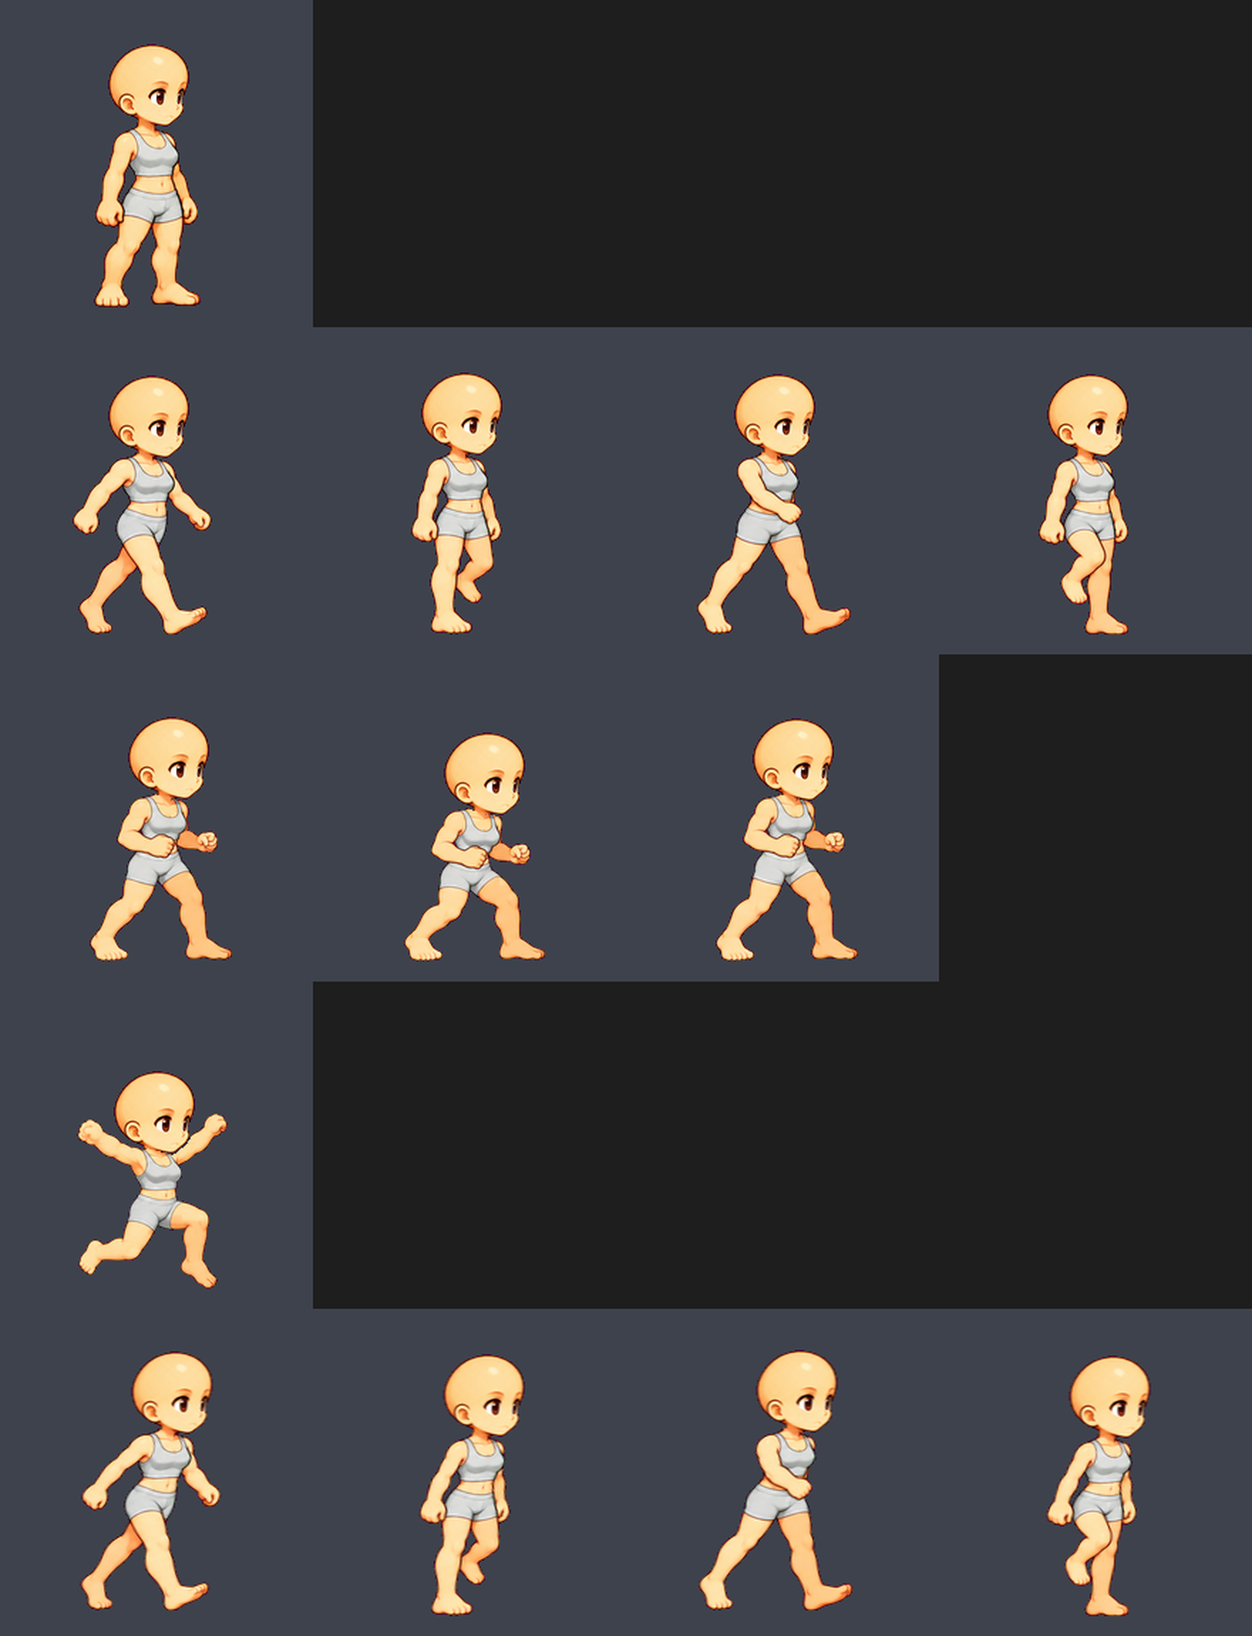
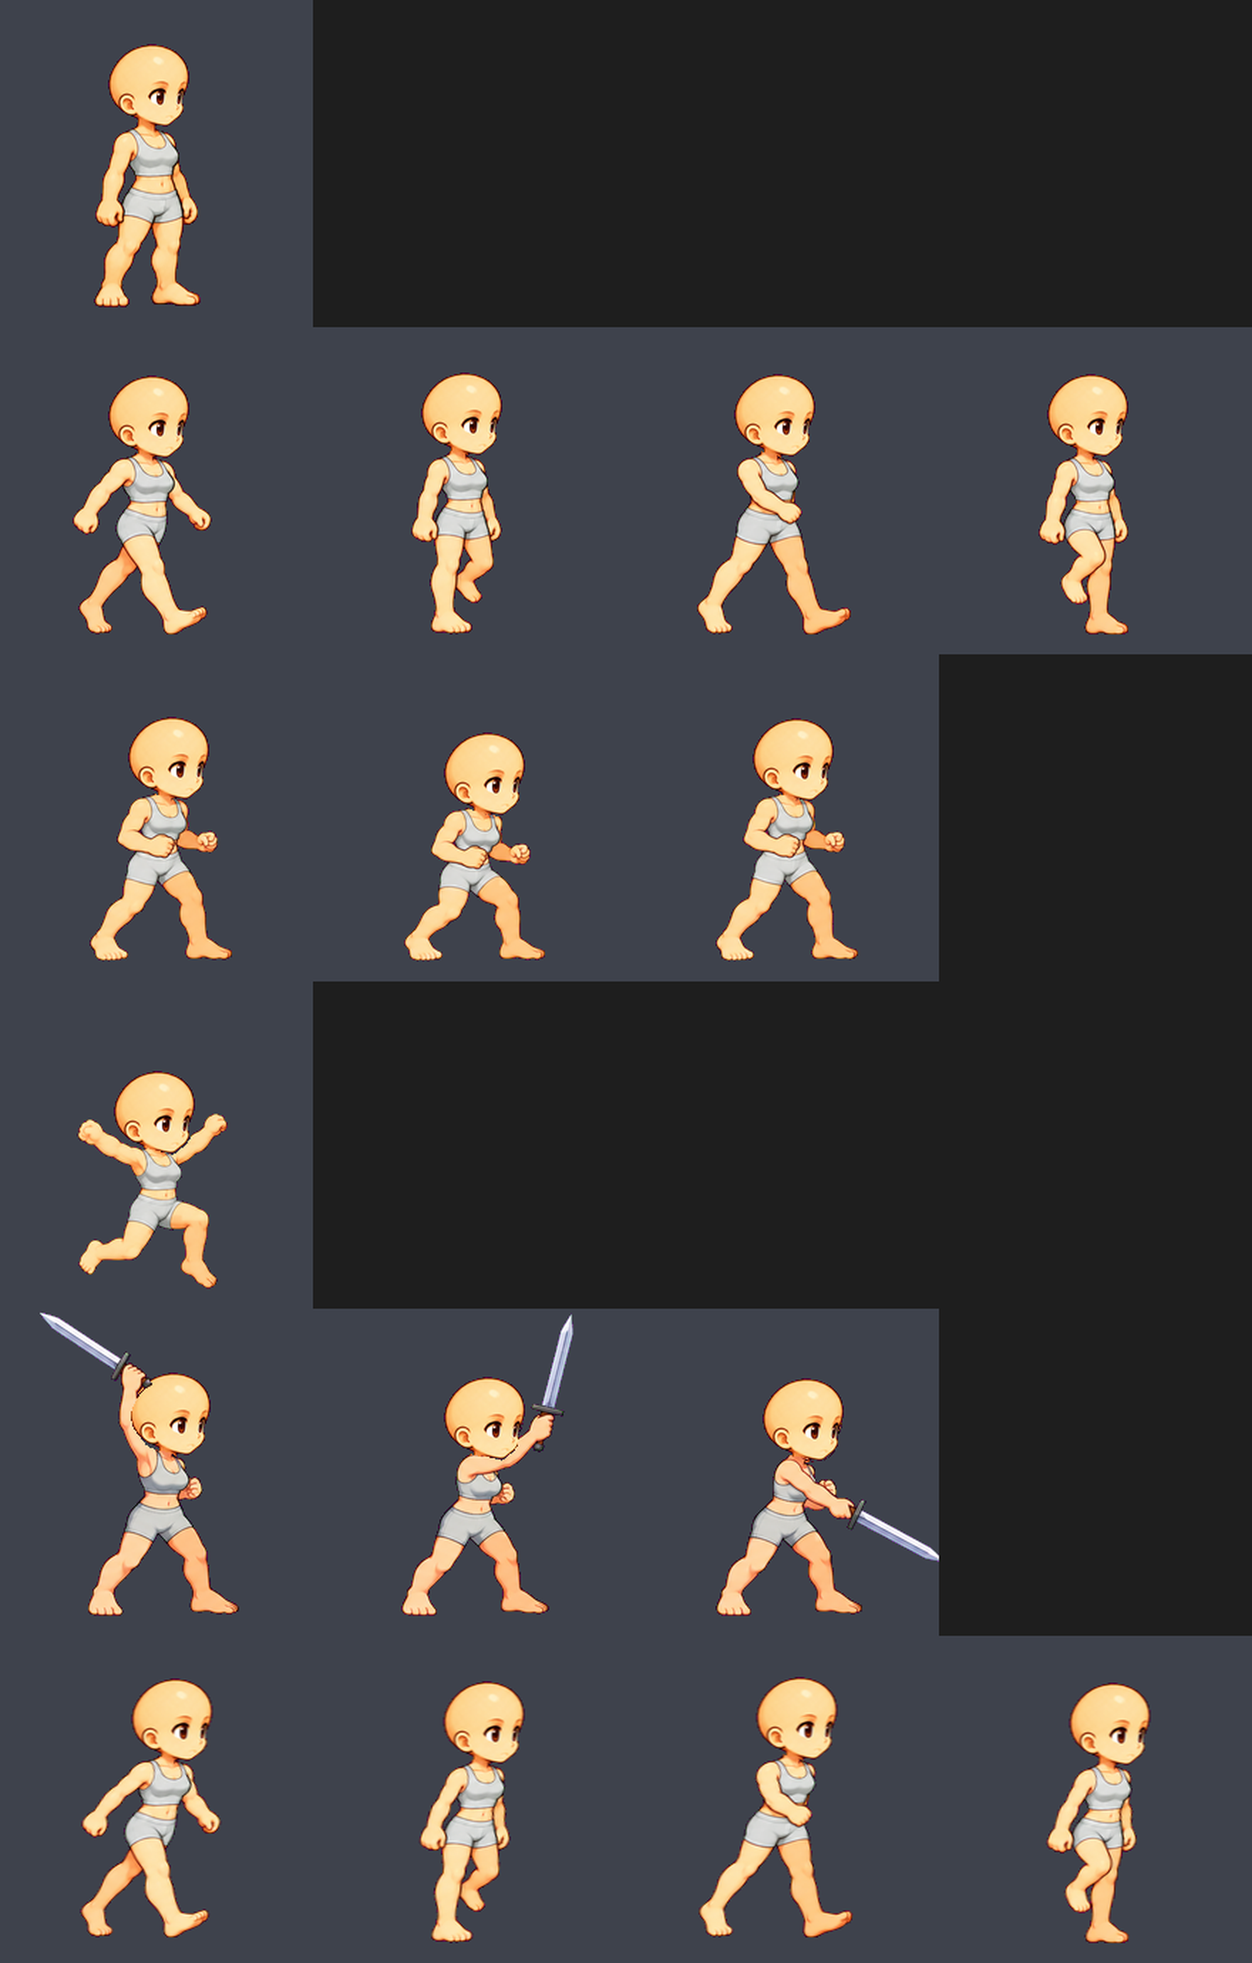
Base character sword attack 1 of 3 (overhead swing) for both genders
- One GPT drawing (man top row, woman bottom row), 3 frames: wind-up, strike, follow-through; the basic attack
  plays it (wind-up during start-up, the strike as it hits, then the follow-through), then the combat stance.
- The sword is found in the drawing (blade + guard, grip, pommel) and goes to the mask's G channel, apart from
  the body labels, so a weapon item can replace it later.
- The standing head again in every frame; what GPT drew in front of the head (the sword and the arm holding it)
  stays in front of it (compared with a frame of the move where the head is clear).
- Head size for any pose from its inscribed circle (swords and raised arms no longer confuse it).

Claude-Session: https://claude.ai/code/session_019q8CMrxghbNzj8w42KsHoP

diff --git a/src/game/Body.ts b/src/game/Body.ts
@@ -179,6 +179,9 @@ function nakedPose(cls: string, dir: Dir, g: 'male' | 'female', q: PoseQuery): P
     const c = baseLoop(q.state, q.speed); frame = Math.floor((q.t * c.fps) / 1000) % has[anim];
   } else if (q.k === 'loop' && q.state === 'alert' && has.alert) { anim = 'alert'; frame = Math.floor(q.t / 500) % has.alert; } // 0.5 s a frame (Maple)
   else if (q.k === 'jump' && q.phase !== 'land' && has.jump) anim = 'jump'; // Maple: one frame the whole time off the ground
+  else if (q.k === 'skill' && q.id === 'warrior_basic' && has.swing1) { // the sword swing: wind-up, strike, follow-through
+    anim = 'swing1'; frame = q.elapsed < q.startup ? 0 : q.elapsed < q.startup + q.active * 0.5 ? 1 : 2;
+  }
   const key = nakedKey(g, anim), [hx, hy] = NAKED_HEADS[g]?.[anim]?.[frame] ?? [0, 0], fx = f.flip ? -1 : 1;
   return { ...f, key, frame, wkey: `${key}-w`, blade: null, bladeBehind: false, hair: null, head: null,
     anchor: f.anchor ? f.anchor.map((v, i) => (i % 2 === 0 ? v + hx * fx * SHEET_SCALE : v + (hy + (i === 1 ? NAKED_HEAD_DROP : 0)) * SHEET_SCALE)) : null };

diff --git a/tools/base/naked_frames.py b/tools/base/naked_frames.py
@@ -16,6 +16,9 @@
 #   "ownhead"  keep GPT's head (no standing head)
 #   "feet"   the feet stay planted: every frame's feet where the move's first frame has them, the head goes with the neck
 #   "follow" the head goes with the neck (the frame is not moved under the standing head's x)
+#   "asd:<move>"  the same size as that move, measured by the heads' inscribed circles (works with swords / raised arms)
+#   "clean:N"  cell N of the move has GPT's head clear: what other frames draw over their head (arm, sword) stays in front
+#   "sword"  the sword is found (blade + hilt) and goes to the mask's G channel (not the body labels)
 # "run": {"from": "walk", "lean": [body, torso], "lift": [px per frame]} — the walk frames leaning forward (the whole
 #   body tilts from the feet, the torso a little more from the waist; the head stays upright), optional lift per frame.
 import json, os, sys, numpy as np
@@ -59,11 +62,14 @@ def figures(path):
     if max(runs) > 1:                                          # hands up beside the head: the rows above them only
       head = head[:runs.index(next(v for v in runs if v > 1))]
     hx = np.nonzero(head.any(0))[0]
+    dt = nd.distance_transform_edt(m[y0:y1 + 1]); dt[int((y1 - y0) * 0.6):] = 0
+    headd = 2 * float(dt.max())                                # head size from its inscribed circle (arms, swords: any pose)
+    if len(hx) < 2: hx = np.array([0, headd / 0.92])
     R_, G_, B_ = [e[..., k] for k in range(3)]; mx_ = np.maximum(np.maximum(R_, G_), B_); mn_ = np.minimum(np.minimum(R_, G_), B_)
     grey = m & ((mx_ - mn_) / np.maximum(mx_, 1) < 0.13) & (mx_ > 105) & (np.arange(m.shape[0])[:, None] > y0 + (y1 - y0) * 0.45)
     gx = np.nonzero(grey.any(0))[0]
     nk = neck_of(m)
-    figs.append(dict(gi=gi, m=m, box=(x0, y0, x1, y1), cx=xs.mean(), cy=ys.mean(), headw=float(hx.max() - hx.min()),
+    figs.append(dict(gi=gi, m=m, box=(x0, y0, x1, y1), cx=xs.mean(), cy=ys.mean(), headw=float(hx.max() - hx.min()), headd=headd,
                      shortsw=float(gx.max() - gx.min()) if len(gx) else 0.0, nts=float(y1 - nk[0])))
   # rows (top row first), each left to right
   figs.sort(key=lambda f: f['cy']); hmed = np.median([f['box'][3] - f['box'][1] for f in figs]); row, last = 0, None
@@ -109,11 +115,45 @@ def gpt_legs(f):
   return [l | (near & (di <= dj)) for l, di, dj in ((legs[0], d[0], d[1]), (legs[1], d[1], d[0]))]
 
 
-def label(e, a):
+def gpt_sword(f):
+  """The sword a GPT figure holds: the long thin light-steel blade, and the guard / grip / pommel at its hilt end."""
+  m = f['m']; e, _ = keyed(f['gi'])
+  R, Gc, B = e[..., 0], e[..., 1], e[..., 2]; mx = np.maximum(np.maximum(R, Gc), B); mn = np.minimum(np.minimum(R, Gc), B)
+  sat = (mx - mn) / np.maximum(mx, 1)
+  skin = (R > 150) & (Gc > 95) & (B > 60) & (R > Gc + 10) & (Gc > B + 8)
+  steel = nd.binary_opening(m & (mx > 120) & (B >= R - 4) & (sat < 0.3) & ~skin, iterations=1)
+  L, n = nd.label(steel); blade = np.zeros_like(m); ends = []
+  for k in range(1, n + 1):
+    ys, xs = np.nonzero(L == k)
+    if len(ys) < 300: continue
+    c = np.cov(np.vstack([xs, ys])); ev, vec = np.linalg.eigh(c)
+    if ev[1] < 8 * max(ev[0], 1e-3) or np.sqrt(ev[1]) < 25: continue
+    blade |= L == k
+    u = vec[:, 1]; t = (xs - xs.mean()) * u[0] + (ys - ys.mean()) * u[1]
+    p0, p1 = (xs[t.argmin()], ys[t.argmin()]), (xs[t.argmax()], ys[t.argmax()])
+    ln = t.max() - t.min()
+    ds = nd.distance_transform_edt(~(skin & m))
+    hilt, tip = (p0, p1) if ds[p0[1], p0[0]] < ds[p1[1], p1[0]] else (p1, p0)      # the end at the fist
+    ax_ = np.array([hilt[0] - tip[0], hilt[1] - tip[1]], float); ax_ /= np.linalg.norm(ax_)
+    ends.append((hilt, ax_, ln))
+  if not ends: return blade
+  yy, xx = np.mgrid[0:m.shape[0], 0:m.shape[1]]
+  hiltm = np.zeros_like(m)
+  dark = mx < 150                                                                 # guard, pommel
+  brown = (R > Gc + 12) & (Gc > B + 6) & (sat > 0.25) & (mx < 200) & ~skin         # grip
+  for (hx_, hy_), (ux, uy), ln in ends:                                           # along the blade's line, past its base:
+    along = (xx - hx_) * ux + (yy - hy_) * uy; perp = np.abs((xx - hx_) * uy - (yy - hy_) * ux)
+    guard = (along > -0.06 * ln) & (along < 0.06 * ln) & (perp < 0.14 * ln)       # the crossguard
+    grip = (along >= 0) & (along < 0.48 * ln) & (perp < 0.06 * ln + 0.12 * np.clip(along, 0, None))   # grip, pommel
+    hiltm |= (guard | grip) & m & ~skin & (dark | brown | steel)
+  return nd.binary_closing(blade | hiltm, iterations=1) & m
+
+
+def label(e, a, excl=None):
   fig = a > 0.5
   R, Gc, B = e[..., 0], e[..., 1], e[..., 2]
   mx = np.maximum(np.maximum(R, Gc), B); mn = np.minimum(np.minimum(R, Gc), B); sat = (mx - mn) / np.maximum(mx, 1)
-  grey = nd.binary_opening(fig & (sat < 0.13) & (mx > 105), iterations=1)
+  grey = nd.binary_opening(fig & (sat < 0.13) & (mx > 105) & (True if excl is None else ~excl), iterations=1)
   lab = np.where(fig, 60, 0).astype(np.uint8)
   gL, gn = nd.label(grey)
   parts = [(np.nonzero(gL == k)[0].mean(), gL == k) for k in range(1, gn + 1) if (gL == k).sum() >= 40]
@@ -122,6 +162,7 @@ def label(e, a):
     lab[nd.binary_fill_holes(nd.binary_closing(cm, iterations=2)) & fig] = 200 if cy > low - 15 else 80
   for part in (80, 200):
     lab[nd.binary_dilation(lab == part, iterations=2) & fig & (lab == 60) & (mx < 120)] = part
+  if excl is not None: lab[excl & fig] = 255                    # the sword (its own mask channel)
   return fig, lab
 
 
@@ -135,7 +176,12 @@ def frame(path, idx, sc, opts=()):
   im = Image.fromarray(sub.clip(0, 255).astype(np.uint8)).resize((max(1, int(round(w * sc))), max(1, int(round(h * sc)))), Image.LANCZOS)
   canvas = Image.new('RGB', (S, S), (255, 0, 255)); canvas.paste(im, (int(S / 2 - im.width / 2), int(GROUND - im.height + pad * sc)))
   e, a = keyed(np.array(canvas).astype(np.float32))
-  fig, lab = label(e, a)
+  def to_cell(mask):                                            # a GPT-space mask → this cell, exactly like the picture
+    lm = Image.fromarray((mask[Y0:y1 + pad, X0:x1 + pad] * 255).astype(np.uint8)).resize(im.size, Image.LANCZOS)
+    cm = Image.new('L', (S, S), 0); cm.paste(lm, (int(S / 2 - im.width / 2), int(GROUND - im.height + pad * sc)))
+    return np.array(cm).astype(np.float32) / 255
+  sw = to_cell(gpt_sword(f)) > 0.5 if 'sword' in opts else None
+  fig, lab = label(e, a, sw)
   if 'swap' in opts:
     back, front = split_legs(e, fig, lab)
     deep = np.arange(S)[:, None] > np.percentile(np.nonzero(lab == 200)[0], 97) + 3
@@ -146,10 +192,7 @@ def frame(path, idx, sc, opts=()):
     legs = gpt_legs(f); k = 0 if far[0] == 'farL' else 1
     eg, _ = keyed(f['gi']); bright = eg.max(-1) > 150
     gain = (np.median(eg[legs[1 - k] & bright], 0) * TONE / np.median(eg[legs[k] & bright], 0)).clip(0.7, 1.05)
-    leg = legs[k][Y0:y1 + pad, X0:x1 + pad]
-    lm = Image.fromarray((leg * 255).astype(np.uint8)).resize(im.size, Image.LANCZOS)
-    cm = Image.new('L', (S, S), 0); cm.paste(lm, (int(S / 2 - im.width / 2), int(GROUND - im.height + pad * sc)))
-    soft = nd.gaussian_filter(np.array(cm).astype(np.float32) / 255, 0.6).clip(0, 1)
+    soft = nd.gaussian_filter(to_cell(legs[k]), 0.6).clip(0, 1)
     e = e * (1 - (1 - gain) * soft[..., None])
   sh = np.nonzero(lab == 200)
   dx = int(round(HIPX - np.median(sh[1]))); dy = GROUND - int(np.nonzero(fig.any(1))[0].max())
@@ -170,7 +213,17 @@ def jaw_split(sil, nrow):
   return sil & ~neck, neck
 
 
-def find_head(fig, hd, r):
+def find_head(fig, hd, r, search=False):
+  if search:                                                    # several sizes: the best fit (score per template pixel)
+    best = None
+    for k in np.arange(0.9, 1.101, 0.025):
+      res = find_head(fig, hd, r * k)
+      if best is None or res[3] > best[3]: best = res
+    return best
+  return _find_head(fig, hd, r)
+
+
+def _find_head(fig, hd, r):
   """Where GPT drew its head: the standing head's outline (scaled to GPT's head size, r) laid over this figure — the
   head inside the figure, the band just outside its upper half clear of it. → GPT's neck point (x, y), the scaled
   standing head (without its neck) laid there = GPT's head."""
@@ -184,27 +237,64 @@ def find_head(fig, hd, r):
   sc = signal.correlate(fig.astype(np.float32), K, mode='valid', method='fft')
   top = int(np.nonzero(fig.any(1))[0].min())
   win = np.full(sc.shape, -1e9, np.float32); lo, hi = max(0, top - 20), min(sc.shape[0], top + 60); win[lo:hi] = sc[lo:hi]
-  ty, tx = np.unravel_index(np.argmax(win), win.shape); ty, tx = ty + 4, tx + 4
+  ty, tx = np.unravel_index(np.argmax(win), win.shape); score = float(win[ty, tx]) / T.sum(); ty, tx = ty + 4, tx + 4
   m = np.zeros((S, S), bool); m[ty:ty + TH.shape[0], tx:tx + TH.shape[1]] = TH
-  return tx + (hd['cx'] - x0) * r, ty + (hd['row'] - y0) * r, m
+  return tx + (hd['cx'] - x0) * r, ty + (hd['row'] - y0) * r, m, score
 
 
-def put_head(e, a, fig, lab, hd, r, follow=False):
+def occluders(e, fig, lab, gm, zone, ay, ref, ax, reach):
+  """What GPT drew in front of its own head — the sword and the arm holding it — kept in front of the standing head.
+  The arm = what is within an arm's length of the sword's hilt, going through the inside of the arm (not across
+  outlines); over GPT's head, only where this frame differs from the same head drawn clean (another frame)."""
+  sx0, sy0 = int(round(ax - ref['ax'])), int(round(ay - ref['ay']))
+  best = None                                                    # the clean head laid exactly over this one
+  for oy in range(-4, 5):
+    for ox in range(-4, 5):
+      xe_ = np.roll(np.roll(ref['e'], sy0 + oy, 0), sx0 + ox, 1)
+      err = float(np.minimum(np.abs(e - xe_).sum(-1), 200)[gm & fig].mean())
+      if best is None or err < best[0]: best = (err, ox, oy)
+  sh = lambda v: np.roll(np.roll(v, sy0 + best[2], 0), sx0 + best[1], 1)
+  xe, xf = sh(ref['e']), sh(ref['fig'])
+  sword = fig & (lab == 255)
+  if not sword.any(): return np.zeros((S, S), bool)
+  inner = nd.binary_dilation(gm, iterations=1)
+  through = fig & ((e.max(-1) >= 140) | sword) & ~inner                                # never through GPT's head
+  arm = sword.copy(); front = arm.copy()
+  for _ in range(int(reach * 0.85)):                             # within an arm's length of the sword, inside the arm
+    front = nd.binary_dilation(front) & through & ~arm
+    if not front.any(): break
+    arm |= front
+  diff = np.abs(e - xe).sum(-1)
+  cand = nd.binary_opening(gm & fig & (~xf | (diff > 150)), iterations=2)   # no thin strips (outlines 1-2 px apart)
+  L, n = nd.label(cand); near = nd.binary_dilation(arm & ~gm, iterations=2)
+  over = np.isin(L, [k for k in range(1, n + 1) if ((L == k) & near).any()])   # over GPT's head: joined to the arm
+  skin = zone & ~inner & arm & ~sword
+  occ = skin | over | (sword & zone)
+  occ = nd.binary_fill_holes(nd.binary_closing(occ, iterations=2)) & fig & zone          # one solid arm, no see-through
+  dark = e.max(-1) < 140                                         # the arm's own outline (not GPT's head outline at its edge)
+  return occ | (nd.binary_dilation(skin, iterations=1) & fig & dark & zone & ~nd.binary_dilation(gm, iterations=2))
+
+
+def put_head(e, a, fig, lab, hd, r, follow=False, ref=None, search=False):
   """GPT's head off, the standing head on (the same drawing), on GPT's neck point; its neck goes behind the body (the
   frame keeps its own neck). follow=False: the head keeps the standing x and the frame moves under it (walk);
   follow=True: the frame stays (planted feet), the head goes with it."""
-  ax, ay, gm = find_head(fig, hd, r)
+  ax, ay, gm, _ = find_head(fig, hd, r, search)
   dy = int(round(ay - hd['row'])); hx = int(round(ax - hd['cx']))
   dx = 0
   if not follow: dx, hx = -hx, 0
   e, a, fig, lab, gm = [np.roll(v, dx, 1) for v in (e, a, fig, lab, gm)]
-  cut = nd.binary_dilation(gm, iterations=2)                                       # GPT's head
-  e[cut] = 0; a[cut] = 0; fig[cut] = False; lab[cut] = 0
+  ax += dx
   sh = lambda v: np.roll(np.roll(v, dy, 0), hx, 1)
+  cut = nd.binary_dilation(gm, iterations=2)                                       # GPT's head
+  occ = occluders(e, fig, lab, gm, cut | sh(hd['head']), ay, ref, ax, int(hd['row'] - hd['top'])) if ref else np.zeros((S, S), bool)
+  keep = [v.copy() for v in (e, a, lab)]
+  e[cut] = 0; a[cut] = 0; fig[cut] = False; lab[cut] = 0
   he, ha, hl = sh(hd['e']), sh(hd['a']), sh(hd['lab'])
   for m in (sh(hd['neck']) & ~fig, sh(hd['head'])):                               # neck behind, head over
     e[m] = he[m]; a[m] = ha[m]; fig[m] = True; lab[m] = hl[m]
-  return e, a, fig, lab, dict(dx=dx, hx=hx, dy=dy)
+  e[occ], a[occ], lab[occ] = keep[0][occ], keep[1][occ], keep[2][occ]; fig[occ] = True   # arm / sword in front of it
+  return e, a, fig, lab, dict(dx=dx, hx=hx, dy=dy, occ=int(occ.sum()))
 
 
 def feet_x(fig):
@@ -247,16 +337,20 @@ SC0 = FIG_H / (fi['box'][3] - fi['box'][1]); HEADW = fi['headw'] * SC0; SHORTSW 
 e0, a0, f0, l0 = frame(idle_path, idle_idx, SC0)
 nrow, nl, nr = neck_of(f0)
 sil0 = f0 & (np.arange(S)[:, None] <= nrow); hp0, nk0 = jaw_split(sil0, nrow)
-HEAD = dict(e=e0, a=a0, fig=f0, lab=l0, row=nrow, cx=(nl + nr) / 2, sil=sil0, head=hp0, neck=nk0)
+HEAD = dict(e=e0, a=a0, fig=f0, lab=l0, row=nrow, cx=(nl + nr) / 2, sil=sil0, head=hp0, neck=nk0, top=int(np.nonzero(f0.any(1))[0].min()))
 BODY_H = GROUND - nrow                                                  # standing neck → sole
+HEADD = fi['headd'] * SC0                                               # the standing head's inscribed size (cell px)
 print(gender, 'standing neck row', nrow, 'x', HEAD['cx'], 'width', nr - nl, 'neck→sole', BODY_H)
 os.makedirs(OUT, exist_ok=True)
-strips, masks, heads = {}, {}, {}                              # heads: where the standing head sits per frame (cell px)
-move_sc, move_hw = {}, {}                                      # per move: its scale and its GPT head width
+strips, masks, heads, refs = {}, {}, {}, {}                    # heads: where the standing head sits per frame (cell px)
+move_sc, move_hw, move_hd = {}, {}, {}                         # per move: its scale, its GPT head width / inscribed size
 for anim, cells in spec['anims'].items():
   if isinstance(cells, dict): continue                         # derived moves (run) below
   n = len(cells); px = np.zeros((S, n * S, 4), np.uint8); mk = np.zeros((S, n * S, 4), np.uint8); heads[anim] = []
-  for c, cell in enumerate(cells):
+  order = list(range(n)); cl = [o for c_ in cells for o in c_[2:] if str(o).startswith('clean:')]
+  if cl: k0 = int(cl[0][6:]); order = [k0] + [k for k in order if k != k0]
+  for c in order:
+    cell = cells[c]
     path, idx = cell[0], cell[1]
     opts = cell[2:]
     sc = HEADW / figures(path)[idx]['headw']
@@ -271,25 +365,39 @@ for anim, cells in spec['anims'].items():
     if like:                                                   # same pose as cell N of this move: same height as it
       rp, ri = cells[int(like[0][4:])][:2]; rf = figures(rp)[ri]; tf = figures(path)[idx]
       sc = (HEADW / rf['headw']) * (rf['box'][3] - rf['box'][1]) / (tf['box'][3] - tf['box'][1])
+    samed = [o for o in opts if str(o).startswith('asd:')]
+    if samed:                                                  # the same size as that move by the heads' inscribed circles
+      ref_ = samed[0][4:]; cl = [o for o in opts if str(o).startswith('clean:')]
+      hd_ = figures(cells[int(cl[0][6:])][0])[cells[int(cl[0][6:])][1]]['headd'] if cl else np.mean([figures(cc[0])[cc[1]]['headd'] for cc in cells])
+      sc = move_sc[ref_] * move_hd[ref_] / hd_
     same = [o for o in opts if str(o).startswith('as:')]
     if same:                                                   # drawn at the size of that move's GPT image: its scale
       ref = same[0][3:]
       sc = move_sc[ref] * move_hw[ref] / np.mean([figures(cc[0])[cc[1]]['headw'] for cc in cells])
     e, a, fig, lab = frame(path, idx, sc, opts)
-    if 'feet' in opts:                                         # planted: the feet of the move's first frame
-      if c == 0: feet0 = feet_x(fig)
+    if 'feet' in opts:                                         # planted: the feet of the move's first frame done
+      if c == order[0]: feet0 = feet_x(fig)
       else:
         k = int(round(feet0 - feet_x(fig))); e, a, fig, lab = [np.roll(v, k, 1) for v in (e, a, fig, lab)]
+    if cl and c == order[0] and anim not in refs:              # the clean GPT head every frame of the move is compared to
+      rr = sc * figures(path)[idx]['headd'] / HEADD
+      rax, ray, _, _ = find_head(fig, HEAD, rr, True)
+      refs[anim] = dict(e=e.copy(), fig=fig.copy(), ax=rax, ay=ray)
     hxy = [0, 0]
     if anim != 'idle' and 'ownhead' not in opts:
-      r = sc * figures(path)[idx]['headw'] / HEADW                 # GPT's head size / the standing head's
-      e, a, fig, lab, info = put_head(e, a, fig, lab, HEAD, r, follow='feet' in opts or 'follow' in opts)
+      if samed: r = sc * figures(path)[idx]['headd'] / HEADD       # GPT's head size / the standing head's
+      else: r = sc * figures(path)[idx]['headw'] / HEADW
+      e, a, fig, lab, info = put_head(e, a, fig, lab, HEAD, r, follow='feet' in opts or 'follow' in opts,
+                                      ref=refs.get(anim), search=bool(samed))
       print(' ', anim, c, 'scale', round(sc, 4), 'head', info); hxy = [int(info['hx']), int(info['dy'])]
-    heads[anim].append(hxy)
+    heads[anim].append((c, hxy))
     px[:, c * S:(c + 1) * S, :3] = e.clip(0, 255).astype(np.uint8); px[:, c * S:(c + 1) * S, 3] = np.where(fig, (a * 255).clip(0, 255), 0).astype(np.uint8)
-    mk[:, c * S:(c + 1) * S, 0] = np.where(fig, lab, 0); mk[:, c * S:(c + 1) * S, 3] = 255
+    mk[:, c * S:(c + 1) * S, 0] = np.where(fig & (lab != 255), lab, 0); mk[:, c * S:(c + 1) * S, 1] = np.where(fig & (lab == 255), 255, 0)
+    mk[:, c * S:(c + 1) * S, 3] = 255
+  heads[anim] = [h for _, h in sorted(heads[anim], key=lambda t: t[0])]
   strips[anim] = px; masks[anim] = mk
   move_sc[anim] = sc; move_hw[anim] = float(np.mean([figures(cc[0])[cc[1]]['headw'] for cc in cells]))
+  move_hd[anim] = float(np.mean([figures(cc[0])[cc[1]]['headd'] for cc in cells]))
 for anim, d in spec['anims'].items():                          # derived: the run = the walk leaning forward
   if not isinstance(d, dict): continue
   base, bmk = strips[d['from']], masks[d['from']]; n = base.shape[1] // S
